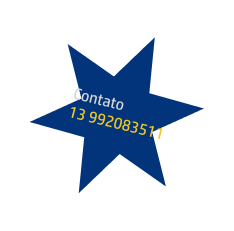
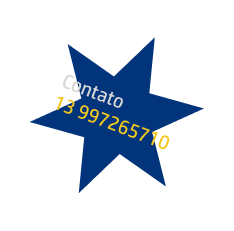
update contato

Changed region(s): [[0.2393, 0.303, 0.7479, 0.6667]]

diff --git a/index.html b/index.html
@@ -4,6 +4,7 @@
 <head>
   <meta charset="UTF-8">
   <meta name="viewport" content="width=device-width, initial-scale=1.0">
+  <script src="https://unpkg.com/scrollreveal"></script>
   <link rel="apple-touch-icon" sizes="180x180" href="apple-touch-icon.png">
   <link rel="icon" type="image/png" sizes="32x32" href="favicon-32x32.png">
   <link rel="icon" type="image/png" sizes="16x16" href="favicon-16x16.png">
@@ -34,45 +35,46 @@
       <img src="./img/Estrela.png" alt="contato">
     </div>
     <div class="parallax parallax1" id="servicos">
-      <div class="descricao">
-        <h2 class="subtitulo">Serviços</h2>
-        <ul>
-          <li><span>Landing Page | crie páginas para promover seus produtos </span></li>
-          <li><span>Site Institucional | atraia clientes para sua empresa</span></li>
-          <li><span>Ecommerce | coloque seus produtos para venda online</span></li>
-          <li><span>Manutenção |  mantenha atualizado e melhore o desempenho do seu site</span></li>
-        </ul>
+      <div class="descricao scroll">
+        <span>Soluções de criação de páginas na web personalizadas</span>
       </div>
       
     </div>
     <div class="content">
-      <span>Soluções de criação de páginas na web personalizadas.</span>
+      <h2 class="subtitulo">Serviços</h2>
+      <ul >
+        <li><span>Landing Page | crie páginas para promover seus produtos </span></li>
+        <li><span>Site Institucional | atraia clientes para sua empresa</span></li>
+        <li><span>Ecommerce | coloque seus produtos para venda online</span></li>
+        <li><span>Manutenção |  mantenha atualizado e melhore o desempenho do seu site</span></li>
+      </ul>
     </div>
     <div class="parallax parallax2" id="contato">
       
-      <div class="descricao">
-        <h2 class="subtitulo">Contato</h2>
-        <span>Com a nossa ajuda você pode ter um site de alta qualidade
+      <div class="descricao scroll">
+        <span>Não perca mais tempo, faça agora mesmo um orçamento conosco</span>
+      </div>
+      
+    </div>
+    <div class="content"> 
+      <h2 class="subtitulo">Contato</h2>
+      <span>Com a nossa ajuda você pode ter um site de alta qualidade
         que atraia clientes e aumente sua presença online!</span>
       <div class="canais">
         <h2 class="subtitulo">Nossos Canais:</h2>
         <ul>
           <li><a href="https://www.instagram.com/totdot_brasil?igsh=bjhwZWZyaG03YzRh"><img src="./img/icon-insta.png" alt=""></a>
           </li>
-          <li><a href="https://wa.me/5513992083511?text=Ol%C3%A1%20seja%20bem-vindo"><img src="./img/icons8-whatsapp-48 2 1.png" alt=""></a>
+          <li><a href="https://wa.me/5513997265710?text=Ol%C3%A1%20seja%20bem-vindo"><img src="./img/icons8-whatsapp-48 2 1.png" alt=""></a>
           </li>
         </ul>
       </div>
-      </div>
       
-    </div>
-    <div class="content"> 
-      <span>Não perca mais tempo, faça agora mesmo um orçamento conosco.      
-      </span>
     </div>
 
     <footer></footer>
   </section>
+  <script src="./js/script.js"></script>
 </body>
 
 </html>

diff --git a/css/style.css b/css/style.css
@@ -32,14 +32,6 @@ li, h1, h2, ul {
   background: url('../img/imagem-2.jpeg') no-repeat center center;
 }
 
-/* .parallax3 {
-  background: url('/img/imagem-3.jpeg') no-repeat center center;
-}
-
-.parallax4 {
-  background: url('/img/imagem-4.jpeg') no-repeat center center;
-} */
-
 .parallax {
   height: 100vh;
   background-attachment: fixed;
@@ -51,10 +43,29 @@ li, h1, h2, ul {
 .content {
   background-color: rgba(0, 11, 120, 0.9);
   display: flex;
-  align-items: center;
-  justify-content: center;
+  justify-content: start;
+  flex-wrap: wrap;
   padding: 70px;
+  gap: 30px;
   font-size: 1.5rem;
+}
+
+.content>ul {
+  font-family: 'Geneva', Verdana, sans-serif;
+  line-height: 1.85rem;
+  display: flex;
+  flex-direction: column;
+  flex-wrap: wrap;
+  gap: 16px;
+}
+
+.content>ul li::before {
+  content: "";
+  display: inline-block;
+  width: 10px;
+  height: 10px;
+  background-color: #F1C820;
+  margin-right: 5px;
 }
 
 .header {
@@ -78,7 +89,7 @@ li, h1, h2, ul {
 .menu {
   display: flex;
   flex-wrap: wrap;
-  gap: 15px;
+  gap: 20px;
 }
 
 .menu a {
@@ -121,31 +132,18 @@ li, h1, h2, ul {
   transform: translate(-50%, -50%);
   background-color: black;
   opacity: 0.6;
-  padding: 22px;
-  border-radius: 8px;
-}
-
-.descricao>ul {
-  font-family: 'Geneva', Verdana, sans-serif;
-  line-height: 1.85rem;
-  display: flex;
-  flex-wrap: wrap;
-  gap: 16px;
-}
-
-.descricao>ul li::before {
-  content: "";
-  display: inline-block;
-  width: 10px;
-  height: 10px;
-  background-color: #F1C820;
-  margin-right: 5px;
+  padding: 20px;
+  border-radius: 1px;
+  text-transform: uppercase;
+  font-weight: 200;
+  font-size: 1.5rem;
+  text-align: center;
 }
 
 .canais {
   display: flex;
   flex-wrap: wrap;
-  margin-top: 15px;
+  margin-top: 1px;
   gap: 12px;
 }
 
@@ -155,9 +153,9 @@ li, h1, h2, ul {
 }
 
 @media (max-width: 375px) {
-  .menu {
+  /* .menu {
     gap: 20px;
-  }
+  } */
  
   .menu a {
     font-size: .8rem;

diff --git a/js/script.js b/js/script.js
@@ -1,0 +1,7 @@
+window.sr = ScrollReveal({ reset: true });
+
+sr.reveal('.scroll', {
+  duration: 2000,
+  distance: '120px',
+  opacity: 0.1,
+});
